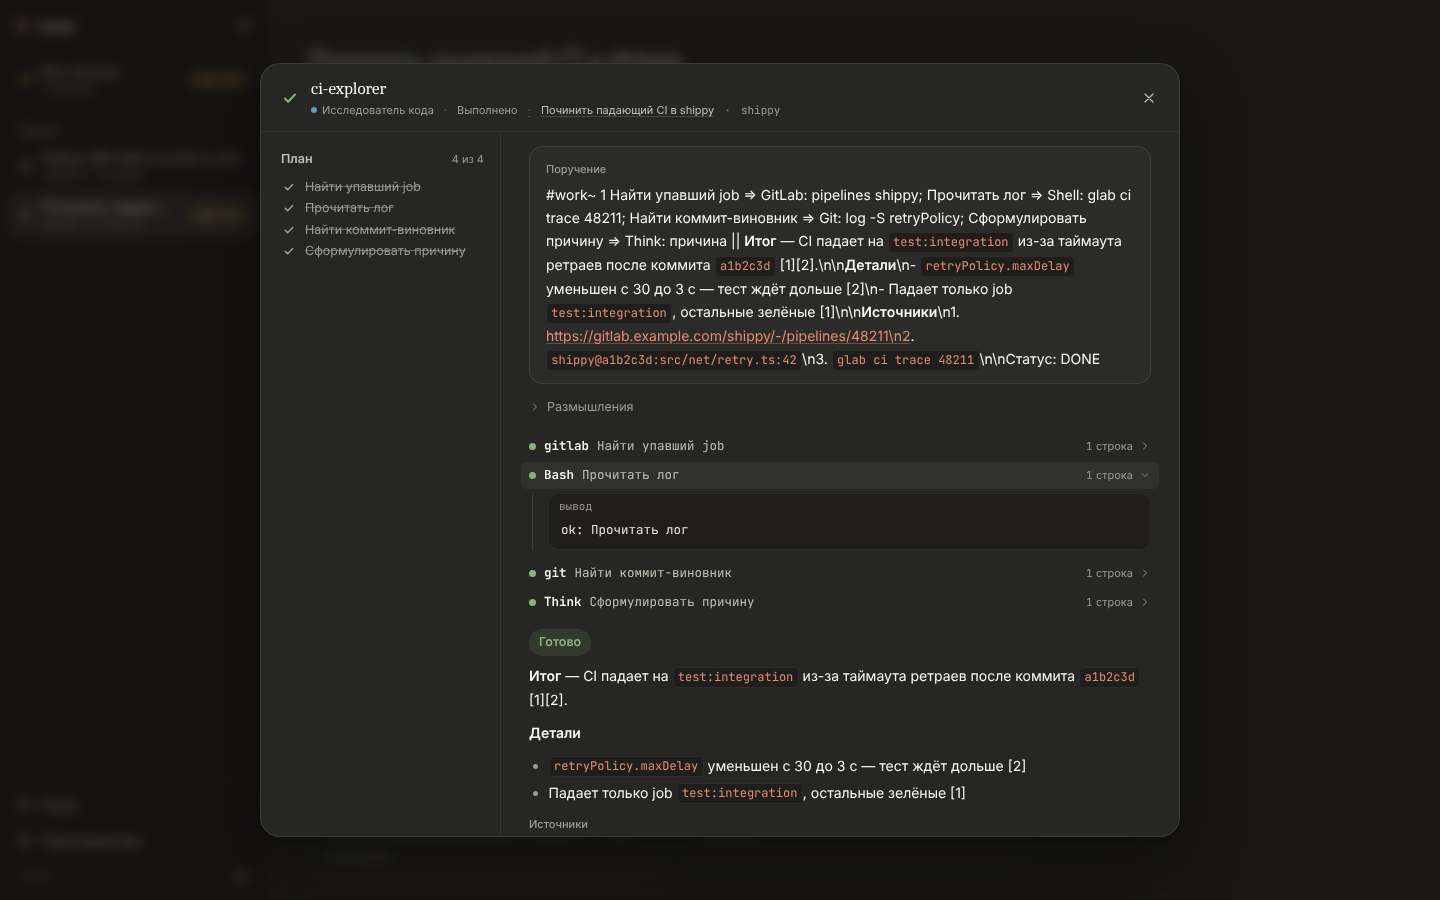
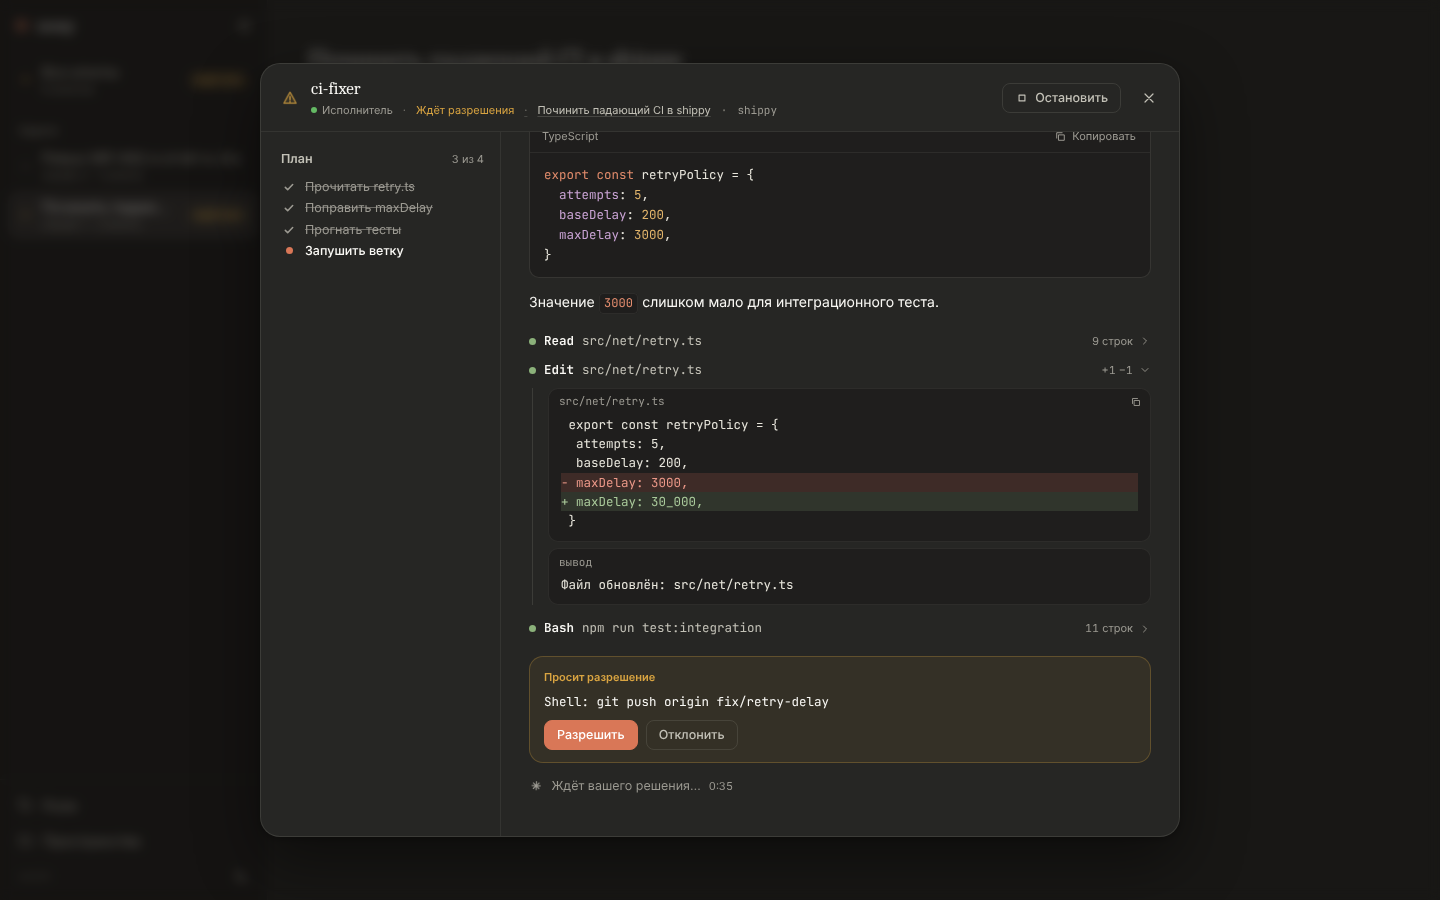
Демо: человеческие поручения, сценарии заглушки в отдельном файле, живой запрос разрешения
- demo-seed пишет сценарии в $NESSY_ORCH_HOME/fake-scenarios.json, поручения — обычный текст.
- ci-fixer: размышление, блок кода, Edit с diff, Bash с выводом, затем ждёт разрешения на git push.
- npm run demo запускается с ORCH_AUTO_APPROVE=0; скриншоты пересняты.

Claude-Session: https://claude.ai/code/session_0181iHrdy7NujeVwM1YcZ4FS

diff --git a/test/support/fake-nessy.ts b/test/support/fake-nessy.ts
@@ -24,10 +24,19 @@
  *                        Ответ после «||», «\n» — перевод строки. K ≥ числа шагов — сразу ответ.
  *   иначе              → эхо: «ответ: <текст>»
  *
+ * Сценарий вне промпта (для демо с человеческими поручениями): если последняя строка не начинается с «#»,
+ * ищется файл `$NESSY_ORCH_HOME/fake-scenarios.json` — объект {«подстрока промпта»: сценарий}. Сценарий — либо строка
+ * с любым из «#…» выше (в т.ч. многострочным ответом `#work`), либо массив операций:
+ *   {thought}, {text}, {plan: {steps, statuses}}, {tool: {name, kind, title, input, output}},
+ *   {ask: «заголовок»} (запрос разрешения; после «Разрешить» сценарий идёт дальше, иначе — остановка),
+ *   {hang: «заголовок»} (инструмент «в работе», ход не завершается).
+ *
  * FAKE_NESSY_DELAY_MS — шаг стриминга (по умолчанию 20 мс).
  */
 import { spawn } from 'node:child_process'
 import { randomUUID } from 'node:crypto'
+import * as fs from 'node:fs'
+import * as path from 'node:path'
 import * as http from 'node:http'
 
 interface Frame {
@@ -179,17 +188,28 @@ parser.push('data: {"a":1}\\n\\n')
 function runPrompt(s: Session, promptId: string, text: string): void {
 	const turn: Turn = { promptId, timers: new Set(), done: false, permission: new Map() }
 	s.turn = turn
-	const body =
+	let body =
 		text
 			.split('\n')
 			.filter(l => l && !l.startsWith('[nessy-orch]'))
 			.pop() ?? ''
 	const msgId = 'msg_' + randomUUID().slice(0, 8)
 	const sc = new Script(s, turn)
+	const inline = /^#(fail|error|slow|long|tools|plan|shell|perm|work|relay)/.test(body)
+	const external = inline ? null : lookupScenario(text)
 	update(s, { sessionUpdate: 'user_message_chunk', messageId: 'user_' + promptId.slice(0, 8), content: { type: 'text', text } })
 	if (!s.named) {
 		s.named = true
-		sc.at(STEP, () => emit(s, 'session_metadata_updated', { displayName: body.slice(0, 40), titleSource: 'auto' }))
+		const displayName = (external ? external.key : body).slice(0, 40)
+		sc.at(STEP, () => emit(s, 'session_metadata_updated', { displayName, titleSource: 'auto' }))
+	}
+
+	if (external) {
+		if (typeof external.scenario === 'string') body = external.scenario
+		else {
+			runOps(s, turn, sc, external.scenario, 0)
+			return
+		}
 	}
 
 	if (body.startsWith('#fail')) {
@@ -307,7 +327,68 @@ function runPrompt(s: Session, promptId: string, text: string): void {
 		})
 		return
 	}
-	sc.thought('обдумываю запрос', msgId).text(`ответ: ${body}`, msgId).finish()
+	// ответ другого агента (последняя строка — «Статус: …») не эхо-ем: просто принимаем к сведению
+	const reaction = /^Статус:/.test(body) ? 'Принято, учту в отчёте.' : `ответ: ${body}`
+	sc.thought('обдумываю запрос', msgId).text(reaction, msgId).finish()
+}
+
+type Op = Json
+/** Сценарий для промпта из `$NESSY_ORCH_HOME/fake-scenarios.json`: первое совпадение по подстроке. */
+function lookupScenario(text: string): { key: string; scenario: string | Op[] } | null {
+	const home = process.env['NESSY_ORCH_HOME']
+	if (!home) return null
+	try {
+		const all = JSON.parse(fs.readFileSync(path.join(home, 'fake-scenarios.json'), 'utf8')) as Record<string, string | Op[]>
+		for (const [key, scenario] of Object.entries(all)) if (text.includes(key)) return { key, scenario }
+	} catch {
+		/* файла нет или он битый — обычное эхо */
+	}
+	return null
+}
+
+const opStr = (v: unknown): string => (typeof v === 'string' ? v : '')
+const opObj = (v: unknown): Json => (typeof v === 'object' && v !== null ? (v as Json) : {})
+
+/** Играет массив операций; на {ask} ждёт голосования и продолжает с следующей операции. */
+function runOps(s: Session, turn: Turn, sc: Script, ops: Op[], from: number): void {
+	for (let i = from; i < ops.length; i++) {
+		const op = ops[i] ?? {}
+		const id = 'msg_' + randomUUID().slice(0, 8)
+		if (typeof op['thought'] === 'string') sc.thought(op['thought'], id)
+		else if (typeof op['text'] === 'string') sc.text(op['text'], id, STEP, 24)
+		else if (op['plan']) {
+			const p = opObj(op['plan'])
+			sc.plan((p['steps'] as string[] | undefined) ?? [], (p['statuses'] as string[] | undefined) ?? [])
+		} else if (op['tool']) {
+			const t = opObj(op['tool'])
+			sc.tool(opStr(t['name']), opStr(t['kind']) || 'execute', opStr(t['title']), opObj(t['input']), opStr(t['output']))
+		} else if (typeof op['hang'] === 'string') {
+			const title = op['hang']
+			const toolCallId = 'call_' + randomUUID().slice(0, 8)
+			sc.at(STEP, () => update(s, { sessionUpdate: 'tool_call', toolCallId, title, kind: 'execute', status: 'in_progress', rawInput: {}, _meta: { toolName: 'shell' } }))
+			return
+		} else if (typeof op['ask'] === 'string') {
+			const title = op['ask']
+			const requestId = 'perm_' + randomUUID().slice(0, 8)
+			sc.at(STEP, () => {
+				turn.permission.set(requestId, approved => {
+					sc.restart()
+					if (approved) runOps(s, turn, sc, ops, i + 1)
+					else sc.text('Пользователь отклонил команду — останавливаюсь.', id).finish()
+				})
+				emit(s, 'permission_request', {
+					requestId,
+					toolCall: { toolCallId: 'call_' + requestId, title, _meta: { toolName: 'shell' } },
+					options: [
+						{ optionId: 'proceed_once', kind: 'allow_once', name: 'Разрешить' },
+						{ optionId: 'cancel', kind: 'reject_once', name: 'Отклонить' },
+					],
+				})
+			})
+			return
+		}
+	}
+	sc.finish()
 }
 
 /** «#work[~] K шаг => Tool: арг; … || ответ» — см. шапку файла. */
